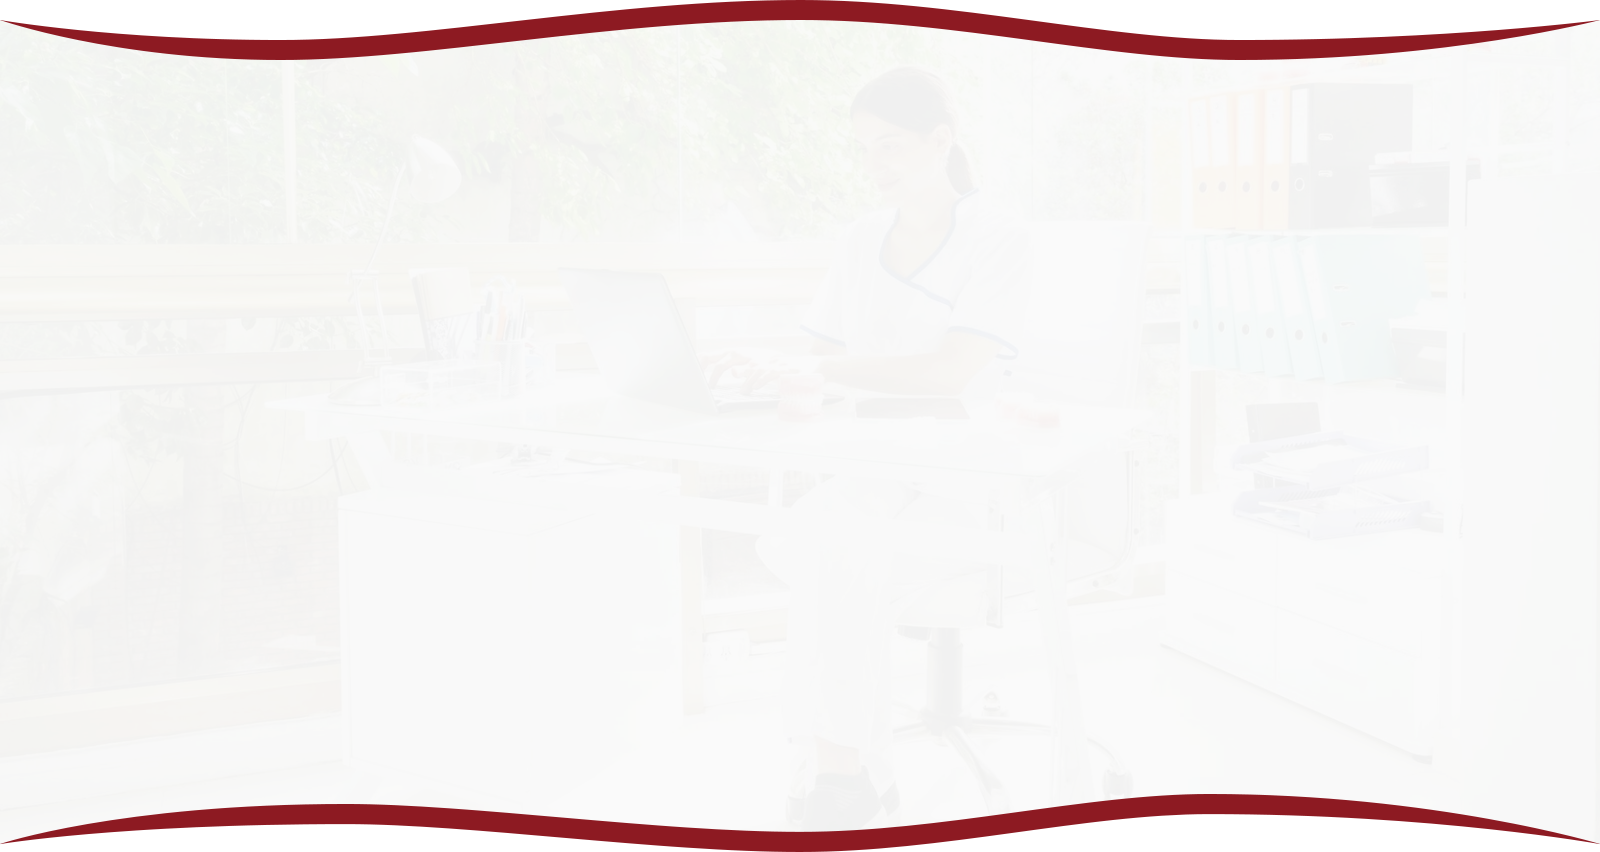
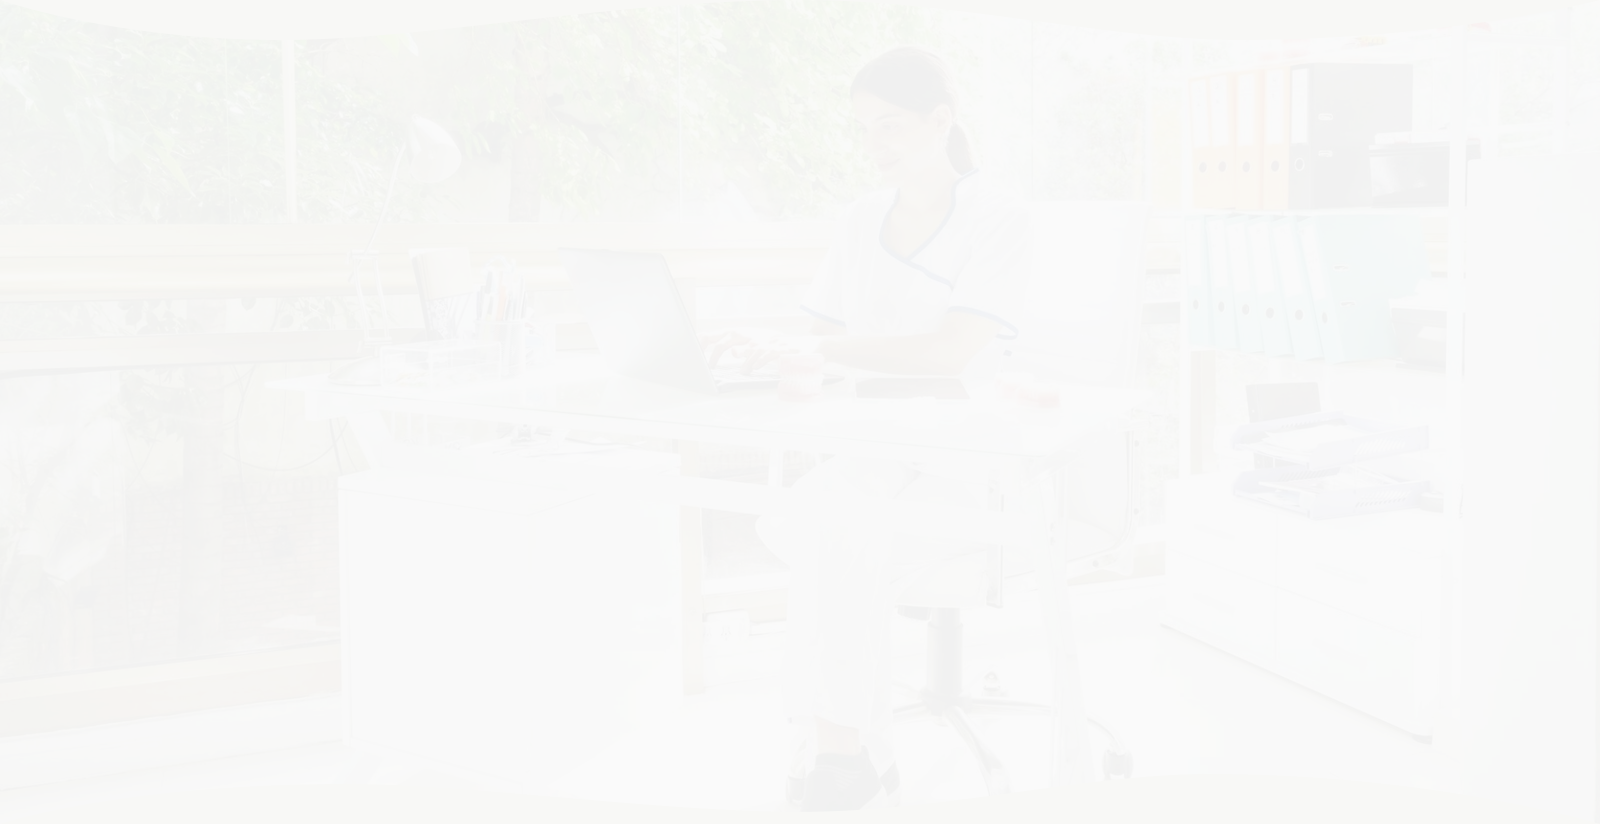
commit by reh frotnent changes

Changed region(s): [[0.0, 0.0, 0.9688, 0.091], [0.0, 0.9102, 0.9375, 1.0], [0.9375, 0.9709, 1.0, 1.0]]

diff --git a/public/css/style.css b/public/css/style.css
@@ -31,10 +31,10 @@ li {
     font-family: poppins;
 }
 
-.container {
+/* .container {
     width: 1500px !important;
     margin: 0 auto;
-}
+} */
 
 .all-txt-blk {
     width: 100%;
@@ -51,7 +51,7 @@ li {
 }
 
 #header-main {
-    background-image: url('../images/banner-image_01.png');
+    background-image: url('../images/banner-image_01.jpg');
     height: 1100px;
 }
 #header-inner {
@@ -100,8 +100,8 @@ li {
 .top-image-box img {
     /* width: 13%; */
     /* width: 31%; */
-    height: 38px;
-    margin: 15px 0 0;
+    height: 28px;
+    margin: 0px 0 0;
 }
 
 
@@ -234,13 +234,22 @@ div#banner-block-01 {
 .appoint-inner-block {
     width: 100%;
     display: flex;
-    gap: 30px;
+    justify-content: center;
+    align-items: center;
+    flex-wrap: wrap;
+    gap: 20px;
     position: relative;
 }
 
-.appoint-img-box {
+/* .appoint-img-box {
     text-align: center;
     width: 25%;
+} */
+
+.appoint-img-box {
+    text-align: center;
+    /* width: 240px; */
+    width: max(300px, 220px);
 }
 
 .appoint-img-box h3 {
@@ -412,12 +421,14 @@ div#banner-block-01 {
 .team-card-block {
     width: 100%;
     display: flex;
-    gap: 120px;
+    flex-wrap: wrap;
+    align-items: center;
+    justify-content: center;
+    gap: 30px;
     margin: 60px 0 0;
 }
 
 .team-card-box {
-    width: 25%;
     text-align: center;
 }
 
@@ -428,9 +439,18 @@ div#banner-block-01 {
     background-color:#424343 !important;
     border-radius:0px 0px 0px 50px !important;
     color:#fff;
+    justify-content: flex-end;
+}
+.inner-heading {
+    text-align: center;
+    margin-top: 55px;
+}
+.inner-heading h1{
+    font-size:54px;
 }
 .page-heading {
     text-align: center;
+    margin-top:60px;
 }
 
 .team-card-box p {
@@ -524,6 +544,16 @@ span {
     margin-bottom: 35px;
 }
 
+.home-sec-team{
+    width: max(300px, 220px);
+}
+
+.home-sec-team a {
+    padding: 10px 18px !important;
+}
+.profile-doc-home .doc-pro,.profile-doc-home .ask-doc {
+    padding: 0px !important;
+}
 .team-card-box a,
 .team-view {
     padding: 15px 30px;
@@ -563,12 +593,16 @@ span {
 .services-blocks {
     width: 100%;
     display: flex;
+    flex-wrap: wrap;
+    justify-content: center;
+    align-items: center;
     gap: 25px;
     margin: 30px 0;
 }
 
 .services-box-blk {
-    width: 25%;
+    /* width: 25%; */
+    width: max(300px, 220px);
     text-align: center;
     background-color: #fff;
     border-radius: 20px;
@@ -651,14 +685,19 @@ span {
 .record-block {
     width: 100%;
     display: flex;
+    flex-wrap: wrap;
+    justify-content: center;
+    align-items: center;
     gap: 40px;
 }
 
 .recorde-txt,
 .record-img {
-    width: 50%;
+    width: max(600px, 420px);
 }
-
+.record-img img {
+    width: 100%;
+}
 .record-list ul {
     list-style: none;
     padding: 0;
@@ -729,13 +768,17 @@ span {
 /* Articles */
 
 #article-main {
-    background-image: url("../images/red_02.png");
+    /* background-image: url("../images/red_02.png"); */
+    background-color: #8d1a22;
     padding: 170px 0 240px;
 }
 
 .article-block {
     width: 100%;
     display: flex;
+    flex-wrap: wrap;
+    justify-content: center;
+    align-items: center;
     gap: 30px;
     color: #fff;
     font-family: poppins;
@@ -743,7 +786,8 @@ span {
 }
 
 .articles {
-    width: 55%;
+    /* width: 55%; */
+    width: max(600px, 480px);
     display: flex;
     gap: 35px;
 }
@@ -907,15 +951,53 @@ span {
 }
 
 .privacy {
-    width: 50%;
-    font-size: 15px;
+    /* width: 50%; */
+    font-size: 14px;
     font-family: poppins;
     text-align: right;
+}
+
+.cus-row {
+    display: flex;
+    flex-wrap: wrap;
+    width: 100%;
+    flex-wrap:wrap;
+    margin-top:60px;
+}
+
+.foo-copy-col {
+    width: max(600px, 480px);
 }
 
 #soct-cout-main {
     border-top: 2px solid #cccccc;
 }
+
+@media only screen and (max-width: 576px) {
+    .top-r{
+        display:none !important;
+    }
+
+}
+@media only screen and (max-width: 1024px) {
+    .reh-cus-box{
+        width: 70vw;
+    }
+
+}
+@media only screen and (max-width: 768px) {
+    .reh-cus-box{
+        width: 90vw;
+    }
+    .inner-heading {
+        text-align: center;
+        margin-top: 42px;
+    }
+    .inner-heading h1{
+        font-size:44px;
+    }
+}
+
 
 /* footer */
 

diff --git a/resources/views/design/team-main.blade.php b/resources/views/design/team-main.blade.php
@@ -10,19 +10,18 @@
                     competent Dental Surgeon supported by well-trained chair side assistants, lab technicians &
                     receptionist.</p>
             </div>
-            <div class="team-card-block">
+            <div class="team-card-block doc-home-list">
                 @foreach ($doctors as $index => $doc)
-                    <div class="team-card-box @if($index == 1 || $index == 2) ahmed @endif">
+                    <div class="home-sec-team team-card-box @if($index == 1 || $index == 2) ahmed @endif">
                         <img src="{{ url("public/profile_image/$doc->profile_image") }}" alt="">
                         @foreach ($doc->user_role as $user_role)
                             <h3>{{ $user_role->name }}</h3>
                         @endforeach
                         <a href="{{ url("get_appointment/$doc->doctorID") }}" target="_blank">MAKE AN APPOINTMENT</a>
-                       <p>
-                        <a href="{{ url("doctor_profile/$doc->doctorID") }}" class="custom-link" target="_blank">View Profile</a>
-                        <a href="{{ url("ask_doctor/$doc->doctorID") }}" class="custom-link" target="_blank" >Ask Doctor</a>
+                       <p class="profile-doc-home">
+                        <a href="{{ url("doctor_profile/$doc->doctorID") }}" class="custom-link doc-pro" target="_blank">View Profile</a>
+                        <a href="{{ url("ask_doctor/$doc->doctorID") }}" class="custom-link ask-doc" target="_blank" >Ask Doctor</a>
                        </p>
-
                    
                     </div>
                 @endforeach

diff --git a/resources/views/design/record-main.blade.php b/resources/views/design/record-main.blade.php
@@ -27,18 +27,22 @@
                                 Videos</li>
                         </ul>
                     </div>
+                    <form action="https://getphr.com/" method="get">
+                        <input type="hidden" name="hospID" value="7" id="">
+                        <button type="submit" class="patient_login btn btn-primary" target="blank">Access Pateint Records</button>
+                    </form>
                 </div>
                 <div class="record-img">
                     <img src=" {{ url('public/images/Shah-Dental-com_03.png') }}" alt="">
                 </div>
             </div>
-            <div class="row">
-                {{-- <button class="btn btn-primary">Access Pateint Records</button> --}}
+            {{-- <div class="row">
+                <button class="btn btn-primary">Access Pateint Records</button>
                 <form action="https://getphr.com/" method="get">
                     <input type="hidden" name="hospID" value="7" id="">
                     <button type="submit" class="patient_login btn btn-primary" target="blank">Access Pateint Records</button>
                 </form>
-            </div>
+            </div> --}}
         </div>
     </div>
 </div>

diff --git a/resources/views/design/footer-main.blade.php b/resources/views/design/footer-main.blade.php
@@ -1,15 +1,15 @@
 @include('inc.main-footer')
 <div class="footer-copy">
-    <div class="cus-container">
-        <div class="row cus-row justify-content-center align-items-center">
-            <div class="col-lg-4 col-md-4 col-sm-12">
+    <div class="container">
+        <div class="row cus-row ">
+            <div class="foo-copy-col foo-copy-col-a">
                 <div class="site-map">
                     <a href="#">Sitemap</a>
                     <p>|</p>
                     <a href="#">Privacy Policy</a>
                 </div>
             </div>
-            <div class="col-lg-8 col-md-8 col-sm-12">
+            <div class="foo-copy-col foo-copy-col-b">
                 <div class="privacy">
                     <p>© {{ date('Y') }} Shah Dental Clinic, All Rights Reserved. | Design & Development:
                         www.webwooter.com</p>

diff --git a/resources/views/inc/main-footer.blade.php b/resources/views/inc/main-footer.blade.php
@@ -1,5 +1,5 @@
 <div class="cus-footer" style="margin-top: 100px;">
-    <div class="cus-container">
+    <div class="container">
         <div class="row cus-row justify-content-center align-items-center">
             <div class="col-lg-5 col-md-12 mb-sc col-sm-12">
                 <a href="{{ url('/') }}">

diff --git a/resources/views/inc/inner-header-header.blade.php b/resources/views/inc/inner-header-header.blade.php
@@ -1,5 +1,5 @@
 <div id="header-inner" class="main-section">
-      <div class="cus-container">
+      <div class="container">
         <div class="header-txt-blk all-txt-blk">
             <div class="top-header row">
               <div class="empty-blk-01 col-md-2">

diff --git a/resources/views/inc/header-main.blade.php b/resources/views/inc/header-main.blade.php
@@ -1,5 +1,5 @@
 <div id="header-main" class="main-section">
-  <div class="cus-container">  
+  <div class="container">  
     <div class="header-txt-blk all-txt-blk">
         <div class="top-header row">
           <div class="empty-blk-01 col-md-2">

diff --git a/resources/views/design/template.blade.php b/resources/views/design/template.blade.php
@@ -10,7 +10,7 @@
     @yield('customCSS')
 </head>
 <body>
-    
+
     @yield('header-main')
     
     @yield('content')
@@ -30,7 +30,7 @@
     @yield('customer-main')
   
     @yield('article-main')
-   
+
     @yield('footer-main')
 
     <script>

diff --git a/index.php b/index.php
@@ -29,7 +29,7 @@ require __DIR__ . '/vendor/autoload.php';
 
 
 
-$app = require_once __DIR__ . './bootstrap/app.php';
+$app = require_once __DIR__ . '../bootstrap/app.php';
 
 $kernel = $app->make(Kernel::class);
 
